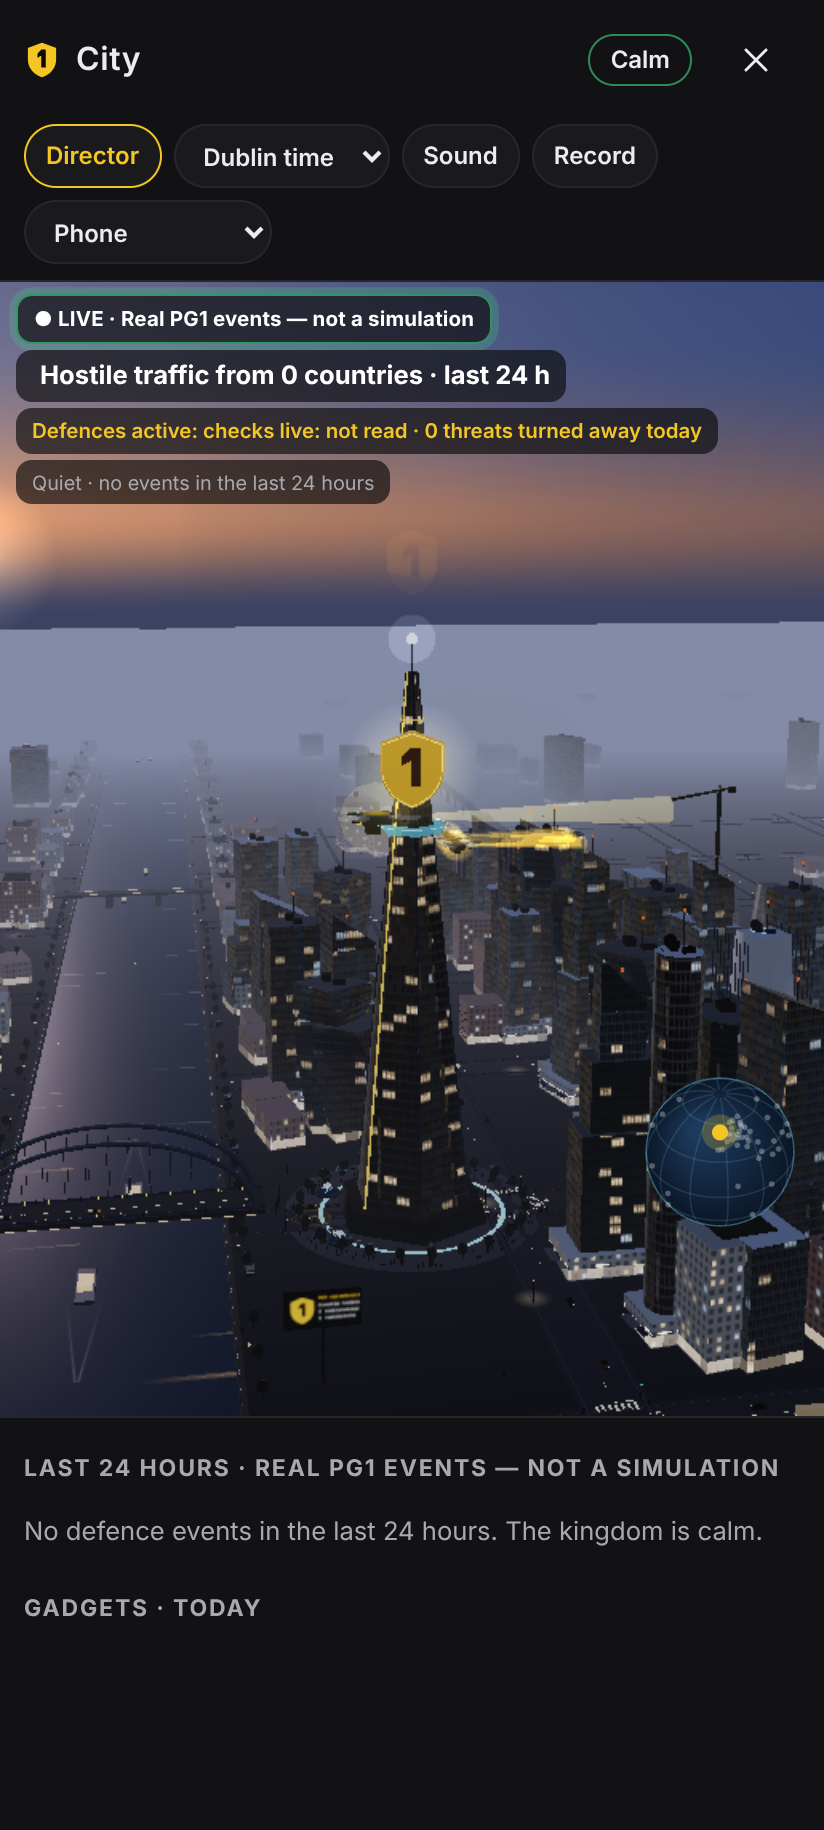
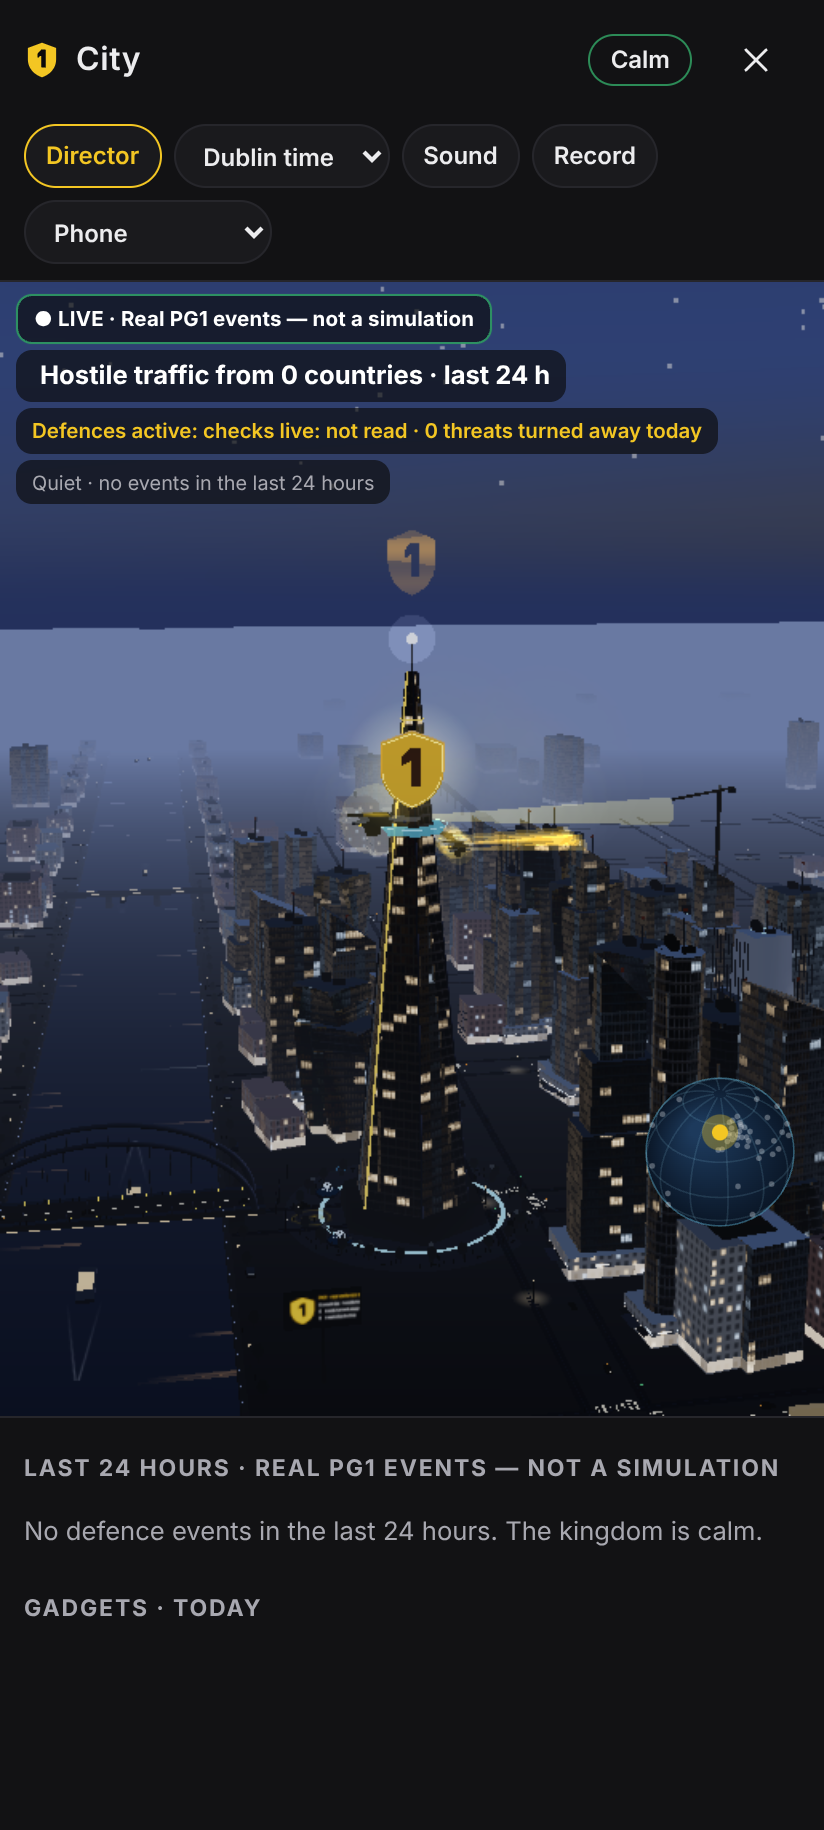
WIP: golden-hour dusk, fallback keeps real time

Changed region(s): [[0.0, 0.1557, 1.0, 0.7787], [0.8799, 0.4984, 0.9102, 0.5607], [0.9102, 0.4672, 0.9405, 0.4984]]

diff --git a/public/kingdom/kingdom-world.js b/public/kingdom/kingdom-world.js
@@ -939,8 +939,9 @@ export function buildWorld(THREE, scene, settings, { waterMaterial = null, Refle
       gradU.uSunDir.value.copy(tmp);
       gradU.uTop.value.setRGB(0.04 + 0.16 * light * (1 - dusk), 0.07 + 0.3 * light * (1 - dusk), 0.17 + 0.55 * light * (1 - dusk)).multiplyScalar(1 - storm * 0.5);
       gradU.uMid.value.setRGB(0.18 + 0.4 * light * (1 - dusk), 0.25 + 0.45 * light * (1 - dusk), 0.45 + 0.4 * light * (1 - dusk)).multiplyScalar(1 - storm * 0.45);
-      gradU.uHorizon.value.setRGB(0.95, 0.55 + 0.35 * (1 - dusk), 0.32 + 0.55 * (1 - dusk)).multiplyScalar((0.25 + 0.75 * light) * (1 - storm * 0.5));
-      gradU.uGlow.value.setRGB(1, 0.7, 0.4).multiplyScalar(Math.max(0.08, dusk) * (1 - storm));
+      // Golden hour, not red: the horizon stays amber-peach (red is the enemy's colour).
+      gradU.uHorizon.value.setRGB(0.95, 0.74 + 0.16 * (1 - dusk), 0.52 + 0.36 * (1 - dusk)).multiplyScalar((0.25 + 0.75 * light) * (1 - storm * 0.5));
+      gradU.uGlow.value.setRGB(1, 0.84, 0.62).multiplyScalar(Math.max(0.08, dusk) * (1 - storm));
       if (riverMat.uniforms) {
         riverMat.uniforms.uTime.value = t;
         riverMat.uniforms.uSunDir.value.copy(tmp);
@@ -959,7 +960,7 @@ export function buildWorld(THREE, scene, settings, { waterMaterial = null, Refle
         cloudLag = Math.max(cloudLag, Math.abs(cover - cu.uCover.value), Math.abs(storm - cu.uDark.value));
         cu.uLight.value = 0.2 + 0.8 * Math.max(light, dusk * 0.8);
         cu.uSunXZ.value.set(tmp.x, tmp.z);
-        cu.uWarm.value.setRGB(1, 0.55 + 0.4 * (1 - dusk), 0.35 + 0.6 * (1 - dusk));
+        cu.uWarm.value.setRGB(1, 0.74 + 0.22 * (1 - dusk), 0.52 + 0.44 * (1 - dusk));
       }
       facade.userData.windows.uNight.value = 0.15 + 1.6 * Math.max(dusk * 0.8, moon);
       facade.userData.windows.uSkyTop.value.copy(gradU.uTop.value).lerp(gradU.uMid.value, 0.5).multiplyScalar(1.15);

diff --git a/public/docs/attributions/index.html b/public/docs/attributions/index.html
@@ -74,7 +74,7 @@
 <tr><td><a href="https://open-meteo.com">Open-Meteo</a></td><td>the current weather in Dublin (weather code, cloud cover, wind, precipitation, day or night), read at most every 15 minutes and used only to draw the sky over PG1 City; never part of any check, count or result</td><td><a href="https://creativecommons.org/licenses/by/4.0/">CC-BY 4.0</a></td></tr>
 </tbody>
 </table></div>
-<p>Weather data by <a href="https://open-meteo.com">Open-Meteo.com</a>. When it cannot be read, the city shows a calm, clear evening.</p>
+<p>Weather data by <a href="https://open-meteo.com">Open-Meteo.com</a>. When it cannot be read, the city shows a calm, clear sky at the real time of day.</p>
 <h2 id="kingdom-defence-3d-assets">Kingdom Defence: 3D assets</h2>
 <p>The PG1 Kingdom Defence view (the operator&#39;s live 3D view of real defence events) uses no third-party models, textures, HDR environments or sounds: the city, the figures, the drones, the water, the sky and the window lights are all generated in code in the browser. It runs on <a href="https://threejs.org">three.js</a> (MIT licence), served from this site. No third-party characters, logos or brands appear in it.</p>
   </article>

diff --git a/public/kingdom/kingdom-scene.js b/public/kingdom/kingdom-scene.js
@@ -428,8 +428,8 @@ async function create3d(container, { coarse, threeUrl, onFocus, onTier, onCaptio
     last = now;
     const t = (now - t0) / 1000;
     // Dusk (the hero look) or the live sun over Dublin.
-    // When the weather cannot be read the city shows a calm, clear evening.
-    const sun = lightMode === 'live' && !look.evening ? dublinSun(Date.now()) : DUSK_SUN;
+    // The light always follows real Dublin time (or the chosen dusk); an unread weather only means a calm, clear sky.
+    const sun = lightMode === 'live' ? dublinSun(Date.now()) : DUSK_SUN;
     sunDir.set(Math.sin(sun.azimuth) * Math.cos(sun.elevation), Math.sin(sun.elevation), -Math.cos(sun.azimuth) * Math.cos(sun.elevation)).normalize();
     const light = daylight(sun.elevation);
     const dusk = Math.max(0, 1 - Math.abs(sun.elevation - 0.06) / 0.2);

diff --git a/public/kingdom/kingdom-data.js b/public/kingdom/kingdom-data.js
@@ -217,7 +217,7 @@ export function dublinHour(ms = Date.now()) {
 // wet streets: never a count, a caption, the ticker or an attacker, and the
 // threat level never changes the weather.
 export const WEATHER_STATES = Object.freeze(['clear', 'partly_cloudy', 'overcast', 'drizzle', 'rain', 'heavy_rain', 'fog', 'snow']);
-// What the city shows when the weather cannot be read: a calm, clear evening.
+// What the city shows when the weather cannot be read: a calm, clear sky (the light still follows real Dublin time).
 export const FALLBACK_WEATHER = Object.freeze({ state: 'clear', cloud: 0.05, wind: 0, gusts: 0, rain: 0, is_day: null, evening: true, moon_phase: 0.5, source: 'fallback' });
 const clamp01 = (v, d = 0) => (Number.isFinite(Number(v)) ? Math.max(0, Math.min(1, Number(v))) : d);
 

diff --git a/docs/kingdom-defence.md b/docs/kingdom-defence.md
@@ -84,7 +84,7 @@ Decoration only: never captioned, counted or shown as an event, and never in the
 
 **Traffic that behaves** (`public/kingdom/kingdom-traffic.js`, pure and tested over long simulated runs): every road carries a lane each way and Dublin drives on the left. Vehicles (cars, taxis, delivery vans, buses) follow their lane's centre line, keep a safe time gap (the intelligent driver model) and never come closer than 2.2 m to the vehicle ahead. Each junction has signals with phases (east-west green, amber, all red, a pedestrian phase with every vehicle signal red, then north-south): a vehicle enters only on its own green, only when the box holds no crossing traffic and only when its exit lane has room; right turns cross the oncoming lane and yield to it; queues form at the stop lines on red and clear on green; a driver whose exit stays blocked takes another exit (no gridlock). Vehicles spawn only into free space at the edge of the network and leave at the edge. North-south avenues stop at the river: only the main bridge crosses, with ramps up to its deck, so nothing drives into the water. Buses stop at shelters while people get off and on. People cross on the zebras in the pedestrian phase (some walking dogs), and vehicles wait for anyone still on a zebra. Water taxis and ferries keep to river lanes, follow at a distance and keep clear of the boats real events bring; two trams run on separate tracks on the viaduct and stop at stations. The overlap check is the sandbox's vehicle-collision check (`public/sandbox/vehicle-path.js`).
 
-**Real weather** (`lib/cityWeather.mjs`): the current weather in Dublin from Open-Meteo's free forecast API (no key; data CC BY 4.0, credited on `/docs/attributions`), host `api.open-meteo.com` on the network guard's allowlist (`lib/netGuard.mjs` `ALLOWED_DATA_HOSTS`). The server reads it at most every 15 minutes, caches it, and sends it with full loads of `/api/defense-feed`; if it cannot be read, the city shows a calm, clear evening, never a random storm. States: clear (sun disc, crisp shadows, warm light), partly cloudy (moving cloud layers), overcast, drizzle, light and heavy rain (instanced rain streaks, ripples on puddles and the river, wet roads whose roughness drops so they shine, umbrellas, spray behind cars), fog (only for the fog codes or visibility under 1 km), snow, wind (trees and flags sway, clouds and steam drift faster) and night (stars when clear, the moon in its real phase). Time of day follows real Dublin time; Record mode can still choose dusk. The weather never changes a count, a caption or the ticker, the threat level never changes the weather, and nothing an attacker does is drawn as weather (the threat level only lights PG1's rovers).
+**Real weather** (`lib/cityWeather.mjs`): the current weather in Dublin from Open-Meteo's free forecast API (no key; data CC BY 4.0, credited on `/docs/attributions`), host `api.open-meteo.com` on the network guard's allowlist (`lib/netGuard.mjs` `ALLOWED_DATA_HOSTS`). The server reads it at most every 15 minutes, caches it, and sends it with full loads of `/api/defense-feed`; if it cannot be read, the city shows a calm, clear sky at the real time of day, never a random storm. States: clear (sun disc, crisp shadows, warm light), partly cloudy (moving cloud layers), overcast, drizzle, light and heavy rain (instanced rain streaks, ripples on puddles and the river, wet roads whose roughness drops so they shine, umbrellas, spray behind cars), fog (only for the fog codes or visibility under 1 km), snow, wind (trees and flags sway, clouds and steam drift faster) and night (stars when clear, the moon in its real phase). Time of day follows real Dublin time; Record mode can still choose dusk. The weather never changes a count, a caption or the ticker, the threat level never changes the weather, and nothing an attacker does is drawn as weather (the threat level only lights PG1's rovers).
 
 **Buildings**: glass curtain-wall towers with thin anodised mullions and transoms, fritted spandrel bands at each slab, a tint per building, each pane at a very slightly different angle (so reflections break up pane by pane), a Fresnel reflection of the sky and ground, and rooms behind the glass with ceiling light strips and part-drawn blinds; Georgian brick terraces on the quays (tall sash windows with white frames and glazing bars, coloured doors with fanlights, a parapet) and stone mid-rises; modern offices with setbacks; podiums with lit shop fronts, awnings, a lit sign band and entrance canopies; vertical fins and balconies as instanced geometry; rooftop gardens and terraces, water tanks, plant rooms, antennas, helipads and blinking obstruction lights. The PG1 Tower stays the hero with the crown emblem.
 
